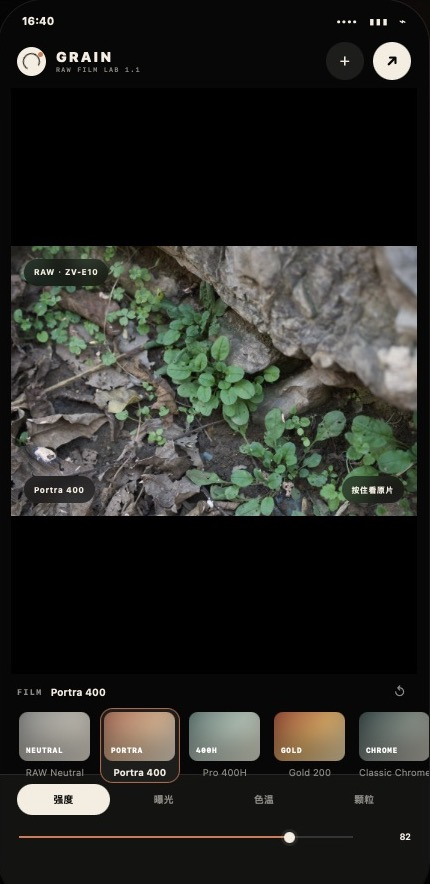
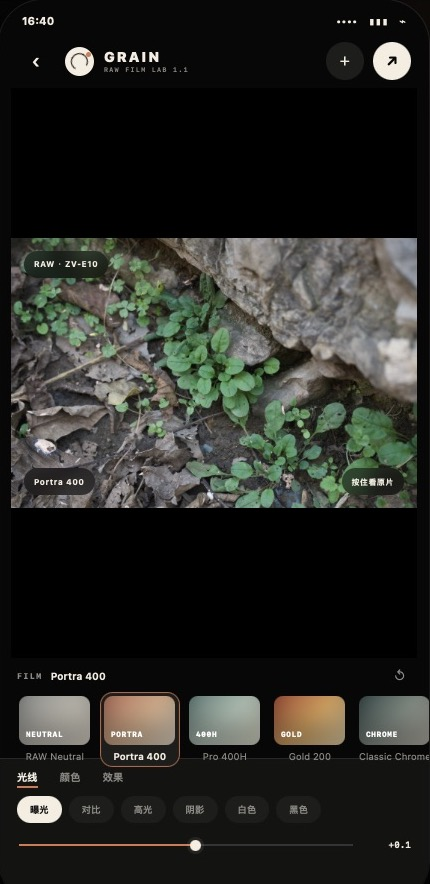
Fix Sony RAW picker detection and finalize build 3 UI

diff --git a/outputs/GRAIN-prototype.html b/outputs/GRAIN-prototype.html
@@ -54,11 +54,15 @@
     .film .swatch{width:71px;height:49px;border-radius:9px;padding:7px;display:flex;align-items:flex-end;color:white;font:800 7.5px/1 ui-monospace,Menlo,monospace;letter-spacing:.7px;box-shadow:inset 0 -24px 25px rgba(0,0,0,.32)}
     .film .name{margin-top:6px;width:72px;overflow:hidden;text-overflow:ellipsis;white-space:nowrap;color:var(--muted);font-size:9.5px;text-align:left}
     .film.active .name{color:var(--paper);font-weight:650}
-    .controls{height:130px;flex:none;background:var(--surface);border-top:1px solid var(--line);padding:9px 18px 18px}
-    .tools{display:flex;gap:7px}
-    .tool{flex:1;height:31px;border:0;border-radius:999px;background:var(--surface);color:var(--muted);font-size:10px;font-weight:650;cursor:pointer}
-    .tool.active{background:var(--paper);color:var(--black)}
-    .slider-row{height:44px;display:flex;align-items:center;gap:12px}
+    .controls{height:146px;flex:none;background:var(--surface);border-top:1px solid var(--line);padding:8px 18px 12px}
+    .categories{display:flex;align-items:center;gap:22px;height:25px}
+    .category{border:0;background:none;color:var(--muted);font-size:10.5px;font-weight:650;padding:0 0 5px;cursor:pointer}
+    .category.active{color:var(--paper);box-shadow:inset 0 -2px 0 var(--accent)}
+    .tool-row{height:34px;display:flex;align-items:center;gap:7px;overflow-x:auto;scrollbar-width:none}
+    .tool-row::-webkit-scrollbar{display:none}
+    .tool{display:none;height:27px;flex:none;border:0;border-radius:999px;background:var(--raised);color:var(--muted);font-size:9.5px;font-weight:650;padding:0 13px;cursor:pointer}
+    .tool.show{display:block}.tool.active{background:var(--paper);color:var(--black)}
+    .slider-row{height:38px;display:flex;align-items:center;gap:12px}
     input[type=range]{appearance:none;width:100%;height:22px;background:transparent}
     input[type=range]::-webkit-slider-runnable-track{height:2px;border-radius:2px;background:linear-gradient(90deg,var(--accent) 0 var(--p,50%),rgba(255,255,255,.14) var(--p,50%))}
     input[type=range]::-webkit-slider-thumb{appearance:none;width:11px;height:11px;margin-top:-4.5px;border-radius:50%;background:var(--paper);box-shadow:0 0 0 3px rgba(244,237,225,.08)}
@@ -93,6 +97,7 @@
     <div class="status"><span>16:40</span><span>••••　▮▮▮　⌁</span></div>
     <div class="screen">
       <header class="topbar">
+        <button class="round" id="backHome" style="background:transparent;font-size:20px">‹</button>
         <div class="mark"></div>
         <div class="brand"><strong>GRAIN</strong><span>RAW FILM LAB 1.1</span></div>
         <div class="top-actions">
@@ -126,13 +131,30 @@
         </section>
 
         <section class="controls">
-          <div class="tools">
-            <button class="tool active" data-tool="intensity">强度</button>
-            <button class="tool" data-tool="exposure">曝光</button>
-            <button class="tool" data-tool="temperature">色温</button>
-            <button class="tool" data-tool="grain">颗粒</button>
+          <div class="categories">
+            <button class="category active" data-category="light">光线</button>
+            <button class="category" data-category="color">颜色</button>
+            <button class="category" data-category="effects">效果</button>
           </div>
-          <div class="slider-row"><input id="slider" type="range" min="0" max="100" value="82"><output id="value">82</output></div>
+          <div class="tool-row">
+            <button class="tool show active" data-tool="exposure" data-cat="light">曝光</button>
+            <button class="tool show" data-tool="contrast" data-cat="light">对比</button>
+            <button class="tool show" data-tool="highlights" data-cat="light">高光</button>
+            <button class="tool show" data-tool="shadows" data-cat="light">阴影</button>
+            <button class="tool show" data-tool="whites" data-cat="light">白色</button>
+            <button class="tool show" data-tool="blacks" data-cat="light">黑色</button>
+            <button class="tool" data-tool="temperature" data-cat="color">色温</button>
+            <button class="tool" data-tool="tint" data-cat="color">色调</button>
+            <button class="tool" data-tool="vibrance" data-cat="color">自然饱和</button>
+            <button class="tool" data-tool="saturation" data-cat="color">饱和</button>
+            <button class="tool" data-tool="intensity" data-cat="effects">强度</button>
+            <button class="tool" data-tool="clarity" data-cat="effects">清晰度</button>
+            <button class="tool" data-tool="sharpness" data-cat="effects">锐化</button>
+            <button class="tool" data-tool="fade" data-cat="effects">褪色</button>
+            <button class="tool" data-tool="grain" data-cat="effects">颗粒</button>
+            <button class="tool" data-tool="vignette" data-cat="effects">暗角</button>
+          </div>
+          <div class="slider-row"><input id="slider" type="range" min="-200" max="200" value="12"><output id="value">+0.1</output></div>
         </section>
       </main>
     </div>
@@ -160,37 +182,71 @@
       cinestill:{name:'CineStill 800T',badge:'800T',filter:'saturate(.96) contrast(.97) hue-rotate(6deg) brightness(1.02)',range:[0,100],value:82},
       hp5:{name:'HP5 Plus',badge:'HP5',filter:'grayscale(1) contrast(1.17) brightness(.98)',range:[0,100],value:82}
     };
-    let activeProfile='portra',activeTool='intensity';
+    let activeProfile='portra',activeTool='exposure',activeCategory='light';
     const sliders={
       intensity:[0,100,82,''],
       exposure:[-200,200,12,'EV'],
+      contrast:[-100,100,0,''],
+      highlights:[-100,100,0,''],
+      shadows:[-100,100,0,''],
+      whites:[-100,100,0,''],
+      blacks:[-100,100,0,''],
       temperature:[3500,9000,6900,'K'],
-      grain:[0,60,18,'']
+      tint:[-100,100,0,''],
+      vibrance:[-100,100,0,''],
+      saturation:[-100,100,0,''],
+      clarity:[-100,100,0,''],
+      sharpness:[0,100,0,''],
+      fade:[0,100,0,''],
+      grain:[0,100,18,''],
+      vignette:[0,100,0,'']
     };
     const $=s=>document.querySelector(s), photo=$('#photo');
     function setFill(el){const p=(+el.value-+el.min)/(+el.max-+el.min)*100;el.style.setProperty('--p',p+'%')}
     function choose(key){
       activeProfile=key;const p=profiles[key];
       document.documentElement.style.setProperty('--filter',p.filter);
+      applyAdjustments();
       $('#filmName').textContent=p.name;$('#profilePill').textContent=p.name;$('#exportFilm').textContent=p.badge;
       document.querySelectorAll('.film').forEach(x=>x.classList.toggle('active',x.dataset.profile===key));
       photo.classList.add('loading');setTimeout(()=>photo.classList.remove('loading'),180);
     }
     document.querySelectorAll('.film').forEach(b=>b.onclick=()=>choose(b.dataset.profile));
+    function selectCategory(category){
+      activeCategory=category;
+      document.querySelectorAll('.category').forEach(x=>x.classList.toggle('active',x.dataset.category===category));
+      const tools=[...document.querySelectorAll('.tool')];
+      tools.forEach(x=>x.classList.toggle('show',x.dataset.cat===category));
+      const first=tools.find(x=>x.dataset.cat===category);
+      if(first) selectTool(first);
+    }
+    function selectTool(button){
+      activeTool=button.dataset.tool;
+      document.querySelectorAll('.tool').forEach(x=>x.classList.toggle('active',x===button));
+      const s=sliders[activeTool],slider=$('#slider');
+      slider.min=s[0];slider.max=s[1];slider.value=s[2];setFill(slider);updateValue();
+    }
+    document.querySelectorAll('.category').forEach(b=>b.onclick=()=>selectCategory(b.dataset.category));
     document.querySelectorAll('.tool').forEach(b=>b.onclick=()=>{
-      activeTool=b.dataset.tool;document.querySelectorAll('.tool').forEach(x=>x.classList.toggle('active',x===b));
-      const s=sliders[activeTool],slider=$('#slider');slider.min=s[0];slider.max=s[1];slider.value=s[2];setFill(slider);updateValue();
+      selectTool(b);
     });
+    function applyAdjustments(){
+      const exposure=sliders.exposure[2]/100;
+      const contrast=sliders.contrast[2]/100;
+      const saturation=sliders.saturation[2]/100;
+      $('#editedPhoto').style.filter=`${profiles[activeProfile].filter} brightness(${1+exposure*.18}) contrast(${1+contrast*.45}) saturate(${1+saturation})`;
+    }
     function updateValue(){
       const s=sliders[activeTool],v=+$('#slider').value;
       if(activeTool==='exposure')$('#value').textContent=(v>=0?'+':'')+(v/100).toFixed(1);
       else if(activeTool==='temperature')$('#value').textContent=v+'K';
-      else $('#value').textContent=v;
+      else $('#value').textContent=(v>0?'+':'')+v;
     }
-    $('#slider').oninput=()=>{setFill($('#slider'));updateValue();sliders[activeTool][2]=+$('#slider').value;photo.classList.add('loading');setTimeout(()=>photo.classList.remove('loading'),100)};
+    $('#slider').oninput=()=>{setFill($('#slider'));updateValue();sliders[activeTool][2]=+$('#slider').value;applyAdjustments();photo.classList.add('loading');setTimeout(()=>photo.classList.remove('loading'),100)};
     $('#holdOriginal').addEventListener('pointerdown',()=>{photo.classList.add('holding')});
     ['pointerup','pointercancel','pointerleave'].forEach(e=>$('#holdOriginal').addEventListener(e,()=>photo.classList.remove('holding')));
     $('#reset').onclick=()=>choose(activeProfile);
+    $('#backHome').onclick=()=>{$('#fileInput').value='';document.querySelector('.workspace').style.opacity='.18';setTimeout(()=>document.querySelector('.workspace').style.opacity='1',350)};
     $('#openExport').onclick=()=>$('#phone').classList.add('sheet-open');
     $('#closeExport').onclick=$('#overlay').onclick=()=>$('#phone').classList.remove('sheet-open');
     document.querySelectorAll('.format').forEach(b=>b.onclick=()=>{document.querySelectorAll('.format').forEach(x=>x.classList.toggle('active',x===b));const t=b.querySelector('strong').textContent;$('#formatFact').textContent=t;document.querySelector('.export-btn small').textContent=t});

diff --git a/outputs/GRAIN/GRAIN/PhotosImporter.swift b/outputs/GRAIN/GRAIN/PhotosImporter.swift
@@ -13,7 +13,7 @@ struct DocumentRawImporter: UIViewControllerRepresentable {
 
     func makeUIViewController(context: Context) -> UIDocumentPickerViewController {
         let picker = UIDocumentPickerViewController(
-            forOpeningContentTypes: [.rawImage, .image],
+            forOpeningContentTypes: [.data, .image],
             asCopy: true
         )
         picker.delegate = context.coordinator
@@ -83,12 +83,10 @@ struct PhotosRawImporter: UIViewControllerRepresentable {
                 return
             }
 
-            let rawExtensions = Set(["arw", "srf", "sr2", "dng"])
+            let rawMarkers = ["arw", "srf", "sr2", "dng", "camera-raw"]
             let typeIdentifier = provider.registeredTypeIdentifiers.first { identifier in
-                guard let type = UTType(identifier),
-                      let fileExtension = type.preferredFilenameExtension
-                else { return false }
-                return rawExtensions.contains(fileExtension.lowercased())
+                let lowercased = identifier.lowercased()
+                return rawMarkers.contains { lowercased.contains($0) }
             } ?? provider.registeredTypeIdentifiers.first { identifier in
                 guard let type = UTType(identifier) else { return false }
                 return type.conforms(to: .rawImage)

diff --git a/outputs/GRAIN/GRAIN/EditorViewModel.swift b/outputs/GRAIN/GRAIN/EditorViewModel.swift
@@ -88,6 +88,13 @@ final class EditorViewModel: ObservableObject {
         isPreparing = true
         exportResult = nil
 
+        let supportedExtensions = ["arw", "srf", "sr2", "dng", "jpg", "jpeg", "heic", "heif", "png"]
+        guard supportedExtensions.contains(incomingURL.pathExtension.lowercased()) else {
+            isPreparing = false
+            errorMessage = "请选择 Sony ARW、DNG、HEIC 或 JPEG 图片。"
+            return
+        }
+
         let accessed = incomingURL.startAccessingSecurityScopedResource()
         defer {
             if accessed {
